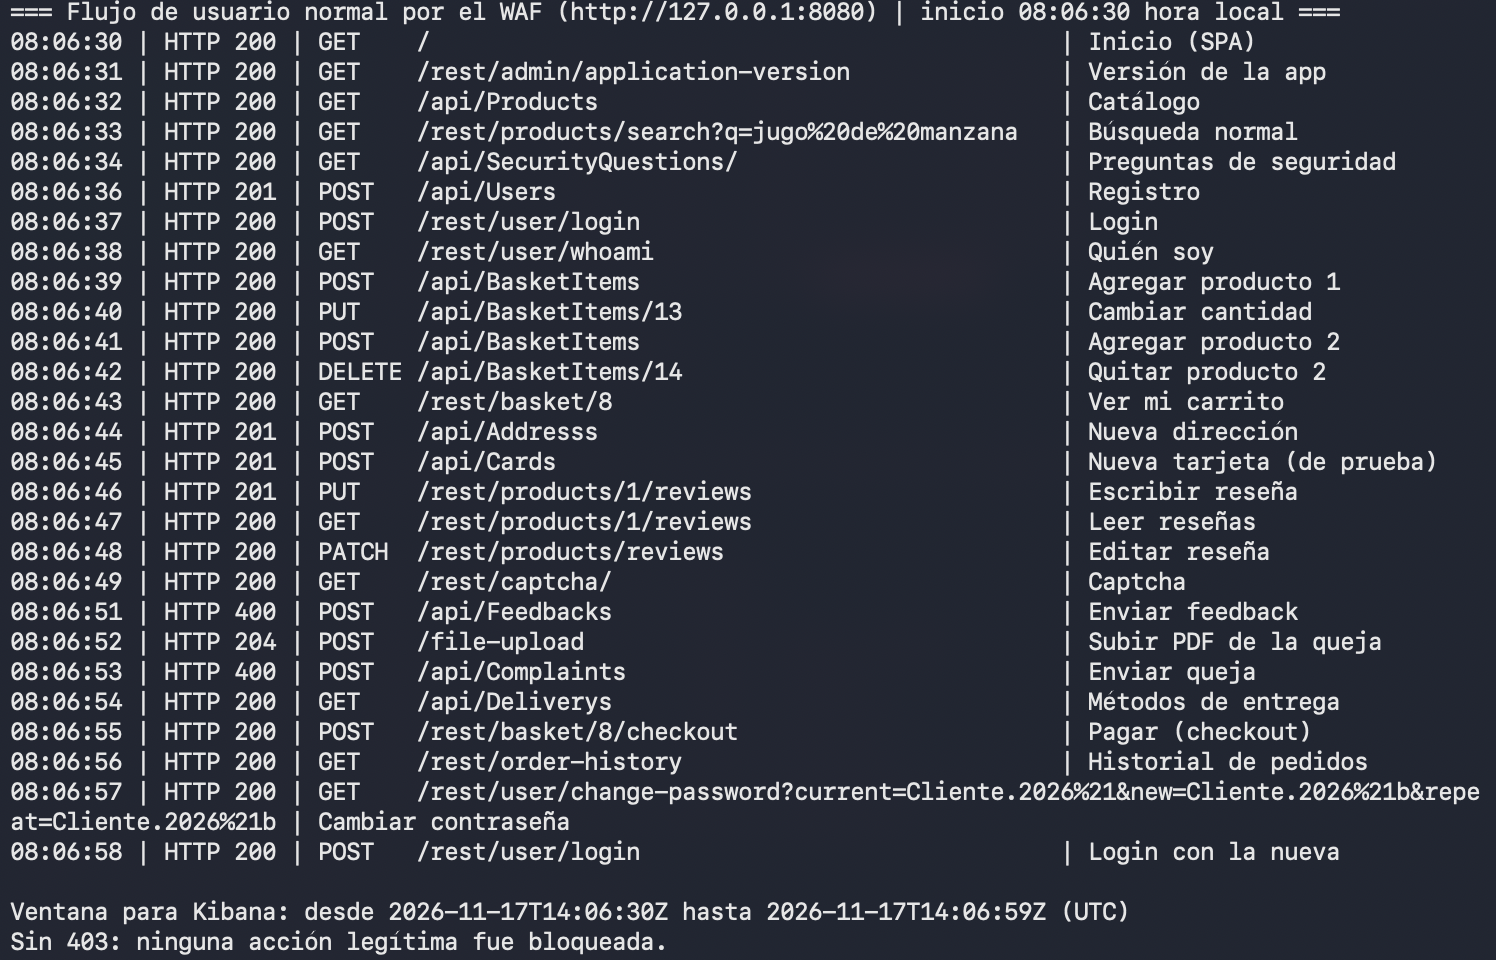
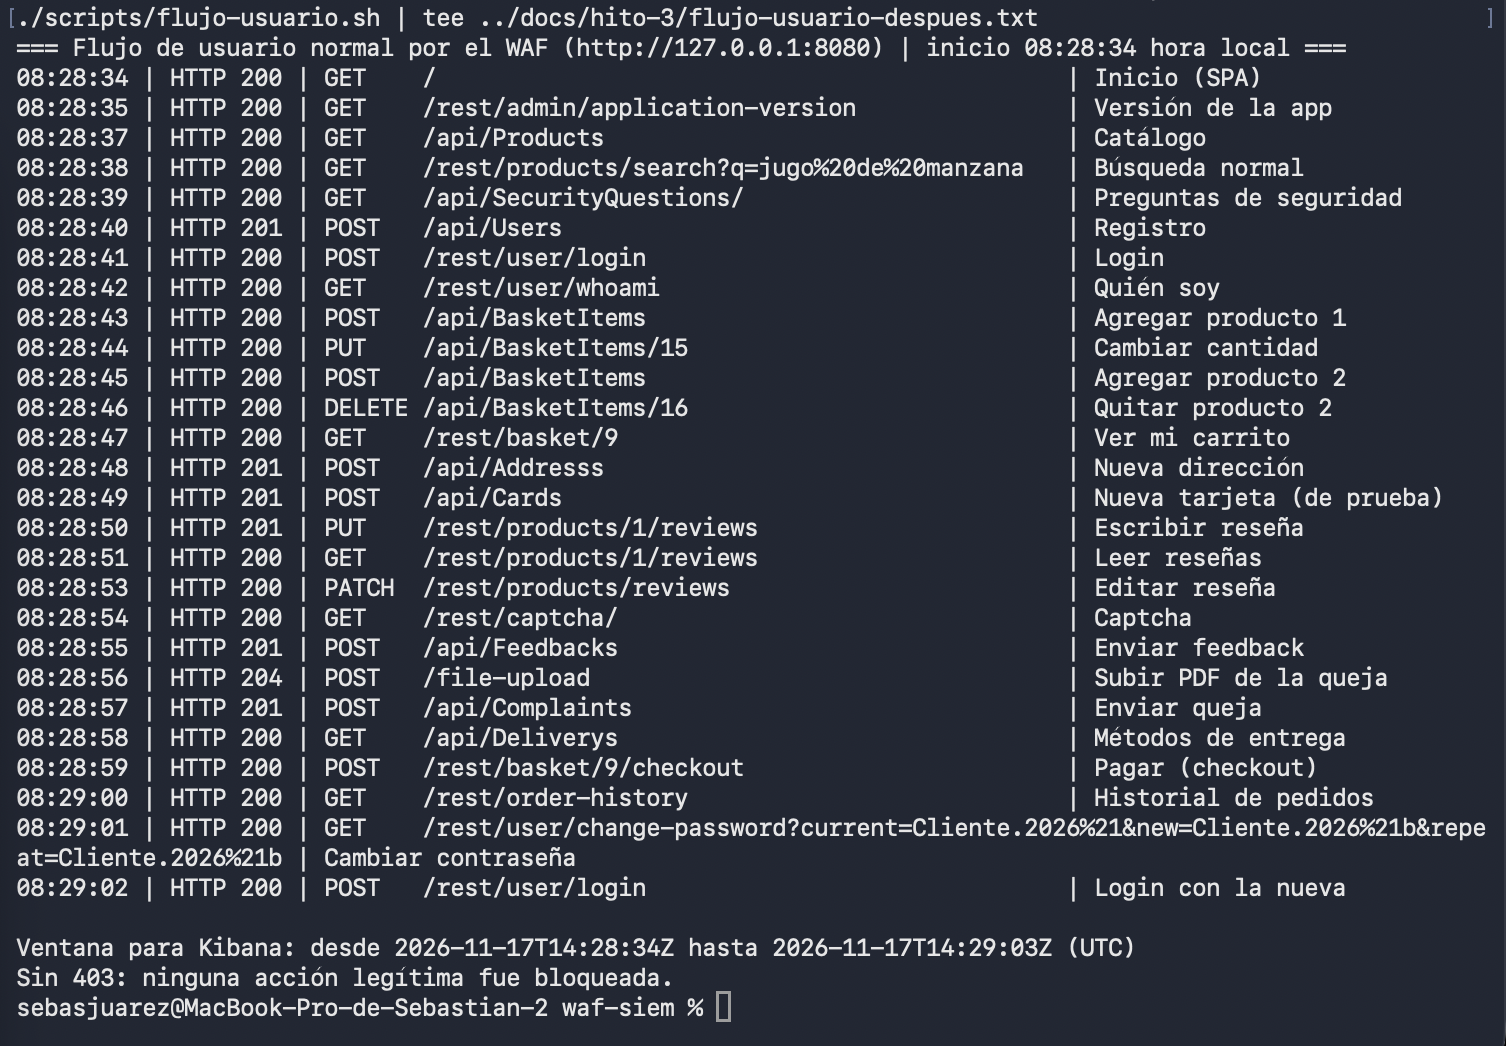
fix(h3): corrección de captura 7

Changed region(s): [[0.0, 0.0, 0.984, 1.0]]

diff --git a/docs/hito-3/README.md b/docs/hito-3/README.md
@@ -47,7 +47,7 @@ Los mismos ataques se lanzaron dos veces con `waf-siem/scripts/poc-redteam.sh`: 
 
 El IDOR pasa en los dos modos y es lo correcto desde el punto de vista del WAF: la petición es válida, solo cambia un id. Se corrige en el código en el Hito 4.
 
-Salidas completas: [`poc-DetectionOnly.txt`](poc-DetectionOnly.txt), [`poc-On.txt`](poc-On.txt). Captura del bloqueo: [`06-waf-403-bloqueo.png`](06-waf-403-bloqueo.png).
+Salidas completas: [`poc-DetectionOnly.txt`](poc-DetectionOnly.txt), [`poc-On.txt`](poc-On.txt). Captura del bloqueo: [`06-waf-403-bloqueos.png`](06-waf-403-bloqueos.png).
 
 ## Exclusiones
 
@@ -58,7 +58,7 @@ Con el WAF en `On` se usó la app como cliente normal con `waf-siem/scripts/fluj
 | 911100 (método no permitido) | `PUT /api/BasketItems/:id`, `DELETE /api/BasketItems/:id`, `PUT /rest/products/:id/reviews`, `PATCH /rest/products/reviews` | Nada en el CRS: se agregaron `PUT PATCH DELETE` a `ALLOWED_METHODS` (tipo 4). | Son los métodos REST que usa la propia SPA para cambiar la cantidad, quitar productos, escribir y editar reseñas. Riesgo aceptado: esos tres métodos se aceptan en todas las rutas; la autorización de cada ruta la sigue haciendo la app. Métodos raros como `PROPFIND`, `TRACE` o `CONNECT` siguen bloqueados (DET-03). | `waf-siem/.env` (y `.env.example`) |
 | 932260 (RCE: comando Unix directo) | `REQUEST_FILENAME` en `/rest/user/whoami` | Solo el target `REQUEST_FILENAME` de la 932260, solo en esa ruta exacta (`@streq`), regla `id:10002`. | La regla confunde el nombre del endpoint con el comando `whoami`. La SPA lo llama en cada carga para saber quién está logueado. Riesgo aceptado: en esa ruta la 932260 no revisa el nombre del archivo; parámetros, cookies y cabeceras siguen evaluados. | `waf-siem/waf/REQUEST-900-EXCLUSION-RULES-BEFORE-CRS.conf` |
 
-Efecto secundario que no es falso positivo: el feedback y la queja dieron 400 en la primera vuelta porque, sin la respuesta de `whoami`, el script mandó un JSON con `UserId` vacío y el WAF lo rechazó con la regla 200002 (cuerpo que no se puede parsear). Ese rechazo es correcto. Al arreglar `whoami` el JSON va completo y pasan.
+Lo que no fue falso positivo: el feedback y la queja dieron 400 en las dos vueltas. La causa estaba en el script, no en el WAF. `/rest/user/whoami` lee la sesión de la cookie `token` (como la manda el navegador) y no de la cabecera `Authorization`; el script solo mandaba la cabecera, así que `whoami` devolvía un usuario vacío y el JSON salía con `UserId` vacío. El WAF rechazó ese cuerpo con la regla 200002 (JSON que no se puede parsear), que es el comportamiento correcto. Se corrigió el script para mandar también la cookie, igual que la SPA.
 
 Después del ajuste, la misma vuelta no tiene ningún 403 en acciones legítimas ([`flujo-usuario-despues.txt`](flujo-usuario-despues.txt)) y los ataques siguen bloqueados ([`poc-On.txt`](poc-On.txt)). Captura: [`07-exclusion-falso-positivo.png`](07-exclusion-falso-positivo.png).
 
